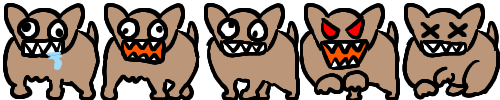
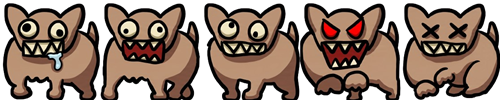
로비캣, 와와 이미지 수정

diff --git a/src/game/LobbyScene.js b/src/game/LobbyScene.js
@@ -1,7 +1,7 @@
 import Phaser from 'phaser';
-import { ALLY_TYPES } from './unitsConfig';
+import { ALLY_TYPES, BOSS_CONFIG } from './unitsConfig';
 import lobby_bg from '../assets/lobby_bg.png';
-import lobby_cat from '../assets/lobby_cat.png';
+import lobby_cat from '../assets/lobby_cat.jpg';
 
 const bgImages = import.meta.glob('../assets/backgrounds/stage*.jpg', { eager: true, import: 'default' });
 const unitImages = import.meta.glob('../assets/units/*.png', { eager: true, import: 'default' });
@@ -50,6 +50,20 @@ export default class LobbyScene extends Phaser.Scene {
             this.setDefaultLevels();
         }
 
+        // Skill Levels
+        let savedSkillLevels = localStorage.getItem('nyanya_skillLevels');
+        if (savedSkillLevels) {
+            try {
+                this.registry.set('skillLevels', JSON.parse(savedSkillLevels));
+            } catch (e) {
+                const defaultSkillLevels = { shout_cooldown: 1, shout_duration: 1, shout_range: 1 };
+                this.registry.set('skillLevels', defaultSkillLevels);
+            }
+        } else {
+            const defaultSkillLevels = { shout_cooldown: 1, shout_duration: 1, shout_range: 1 };
+            this.registry.set('skillLevels', defaultSkillLevels);
+        }
+
         // Stage Clears
         let savedClears = localStorage.getItem('nyanya_stageClears');
         if (savedClears) {
@@ -90,13 +104,16 @@ export default class LobbyScene extends Phaser.Scene {
     }
 
     setDefaultLevels() {
-        const defaultLevels = {
-            normal: 1,
-            tanker: 1,
-            shooter: 1
-        };
-        this.registry.set('unitLevels', defaultLevels);
-        localStorage.setItem('nyanya_unitLevels', JSON.stringify(defaultLevels));
+        if (!this.registry.get('unitLevels')) {
+            const defaultLevels = { leader: 1, normal: 1, tanker: 1, shooter: 1 };
+            this.registry.set('unitLevels', defaultLevels);
+            localStorage.setItem('nyanya_unitLevels', JSON.stringify(defaultLevels));
+        }
+        if (!this.registry.get('skillLevels')) {
+            const defaultSkillLevels = { shout_cooldown: 1, shout_duration: 1, shout_range: 1 };
+            this.registry.set('skillLevels', defaultSkillLevels);
+            localStorage.setItem('nyanya_skillLevels', JSON.stringify(defaultSkillLevels));
+        }
     }
 
     preload() {
@@ -117,6 +134,8 @@ export default class LobbyScene extends Phaser.Scene {
                 this.load.spritesheet(`ally_${key}`, imgUrl, { frameWidth: 100, frameHeight: 100 });
             }
         });
+        const leaderUrl = unitImages['../assets/units/leader.png'];
+        if (leaderUrl) this.load.spritesheet('ally_leader', leaderUrl, { frameWidth: 100, frameHeight: 100 });
     }
 
     create() {
@@ -188,11 +207,11 @@ export default class LobbyScene extends Phaser.Scene {
         // Speech bubble
         const bubble = this.add.graphics();
         bubble.fillStyle(0x000000, 0.6);
-        bubble.fillRoundedRect(100, 50, 250, 60, 15);
+        bubble.fillRoundedRect(75, 220, 250, 60, 15);
         bubble.lineStyle(2, 0xffffff, 1);
-        bubble.strokeRoundedRect(100, 50, 250, 60, 15);
+        bubble.strokeRoundedRect(75, 220, 250, 60, 15);
 
-        this.add.text(225, 80, '김냐냐씨와 함께\n상수동을 되찾아달라냥!', {
+        this.add.text(200, 250, '김냐냐씨와 함께\n상수동을 되찾아달라냥!', {
             fontSize: '16px',
             fontFamily: 'Arial Black',
             fill: '#ffffff',
@@ -232,78 +251,152 @@ export default class LobbyScene extends Phaser.Scene {
     renderUpgradeTab() {
         this.add.rectangle(400, 150, 800, 300, 0x000000, 0.7);
 
-        const title = this.add.text(400, 60, '파워업', {
-            fontSize: '32px',
-            fontFamily: 'Arial Black',
-            fill: '#fbd46d',
-            stroke: '#000',
-            strokeThickness: 5
-        }).setOrigin(0.5);
-
-        const types = ['normal', 'tanker', 'shooter'];
-        const levels = this.registry.get('unitLevels');
         const gold = this.registry.get('globalGold');
 
-        types.forEach((type, i) => {
-            const x = 400;
-            const y = 120 + i * 50;
-            const level = levels[type];
-            const cost = level * 100;
+        // ─── Headers ───
+        this.add.text(200, 45, '유닛 업그레이드', {
+            fontSize: '24px', fontFamily: 'Arial Black', fill: '#fbd46d'
+        }).setOrigin(0.5);
 
-            const bar = this.add.rectangle(x, y, 600, 44, 0xfbd46d, 0.9)
-                .setStrokeStyle(3, 0x000000);
+        this.add.text(600, 45, '스킬 업그레이드', {
+            fontSize: '24px', fontFamily: 'Arial Black', fill: '#43d8c9'
+        }).setOrigin(0.5);
 
-            // Thumbnail
-            if (this.textures.exists(`ally_${type}`)) {
-                this.add.sprite(x - 275, y, `ally_${type}`, 0).setDisplaySize(36, 36);
-            }
+        // ─── Scrollable Setup ───
+        const listWidth = 380;
+        const visibleHeight = 160; // Enough for 3 items (approx 50px each)
+        const listY = 75;
 
-            const spec = ALLY_TYPES[type];
-            this.add.text(x - 245, y, spec.name, {
-                fontSize: '20px',
-                fontFamily: 'Arial Black',
-                fill: '#000000'
-            }).setOrigin(0, 0.5);
+        // Mask for both sides
+        const maskShape = this.make.graphics();
+        maskShape.fillStyle(0xffffff);
+        maskShape.fillRect(10, listY, 380, visibleHeight);
+        maskShape.fillRect(410, listY, 380, visibleHeight);
+        const mask = maskShape.createGeometryMask();
 
-            this.add.text(x - 20, y, `Lv. ${level}`, {
-                fontSize: '20px',
-                fontFamily: 'Arial Black',
-                fill: '#000000'
-            }).setOrigin(0, 0.5);
+        // 1. Units Column
+        const unitTypes = ['leader', 'normal', 'tanker', 'shooter'];
+        this.renderScrollableList(unitTypes, 200, listY, visibleHeight, 'unit', mask);
 
-            const canAfford = gold >= cost;
-            const upgradeBtn = this.add.rectangle(x + 230, y, 120, 30, canAfford ? 0xe74c3c : 0x95a5a6)
-                .setStrokeStyle(2, 0x000000)
-                .setInteractive({ useHandCursor: true });
-
-            this.add.text(x + 230, y, `UP ${cost}`, {
-                fontSize: '14px',
-                fontFamily: 'Arial Black',
-                fill: '#ffffff'
-            }).setOrigin(0.5);
-
-            upgradeBtn.on('pointerdown', () => {
-                if (gold >= cost) {
-                    this.registry.set('globalGold', gold - cost);
-                    levels[type]++;
-                    this.registry.set('unitLevels', levels);
-                    this.scene.restart({ keepTab: true });
-                }
-            });
-        });
+        // 2. Skills Column
+        const skillTypes = [
+            { id: 'shout_cooldown', name: '함성 쿨타임' },
+            { id: 'shout_duration', name: '함성 지속시간' },
+            { id: 'shout_range', name: '함성 범위 확대' } 
+        ];
+        this.renderScrollableList(skillTypes, 600, listY, visibleHeight, 'skill', mask);
 
         const backBtn = this.add.text(400, 275, '< 돌아가기', {
-            fontSize: '24px',
-            fontFamily: 'Arial Black',
-            fill: '#ffffff',
-            stroke: '#000',
-            strokeThickness: 3
+            fontSize: '24px', fontFamily: 'Arial Black', fill: '#ffffff', stroke: '#000', strokeThickness: 3
         }).setOrigin(0.5).setInteractive({ useHandCursor: true });
 
         backBtn.on('pointerdown', () => {
             this.tab = 'MAIN';
             this.scene.restart({ keepTab: true });
         });
+    }
+
+    renderScrollableList(items, centerX, startY, visibleHeight, type, mask) {
+        const container = this.add.container(centerX, startY);
+        container.setMask(mask);
+
+        const levels = type === 'unit' ? this.registry.get('unitLevels') : this.registry.get('skillLevels');
+        const gold = this.registry.get('globalGold');
+        const itemHeight = 52;
+
+        items.forEach((item, i) => {
+            const y = i * itemHeight + 26; // relative to container
+            const id = type === 'unit' ? item : item.id;
+            const name = type === 'unit' ? (item === 'leader' ? '김냐냐(Leader)' : ALLY_TYPES[item].name) : item.name;
+            const level = levels[id] || 1;
+            
+            let cost = 0;
+            if (type === 'unit') {
+                const spec = (item === 'leader') ? BOSS_CONFIG.leader : ALLY_TYPES[item];
+                // Use cost * 5 as base, fallback for 0 cost units
+                const baseBuyPrice = (spec && spec.cost > 0) ? spec.cost : (item === 'leader' ? 500 : 200);
+                cost = (baseBuyPrice * 5) * Math.pow(2, level - 1);
+            } else {
+                cost = level * 1000;
+            }
+
+            const canAfford = gold >= cost;
+
+            const bg = this.add.rectangle(0, y, 370, 48, 0x1a1a2e, 0.8)
+                .setStrokeStyle(2, type === 'unit' ? 0xfbd46d : 0x43d8c9, 0.5);
+            container.add(bg);
+
+            // Icon/Thumb
+            if (type === 'unit') {
+                const thumb = this.add.sprite(-165, y, `ally_${id}`, 0).setDisplaySize(32, 32);
+                container.add(thumb);
+            }
+
+            const nameText = this.add.text(type === 'unit' ? -145 : -175, y, name, {
+                fontSize: '16px', fontFamily: 'Arial Black', fill: '#ffffff'
+            }).setOrigin(0, 0.5);
+            container.add(nameText);
+
+            const lvText = this.add.text(40, y, `Lv. ${level}`, {
+                fontSize: '16px', fontFamily: 'Arial Black', fill: type === 'unit' ? '#fbd46d' : '#43d8c9'
+            }).setOrigin(0, 0.5);
+            container.add(lvText);
+
+            const upgradeBtn = this.add.rectangle(135, y, 90, 30, canAfford ? 0xe74c3c : 0x95a5a6)
+                .setStrokeStyle(2, 0x000000)
+                .setInteractive({ useHandCursor: true });
+            
+            const btnText = this.add.text(135, y, `UP ${cost}`, {
+                fontSize: '11px', fontFamily: 'Arial Black', fill: '#fff'
+            }).setOrigin(0.5);
+            
+            container.add(upgradeBtn);
+            container.add(btnText);
+
+            upgradeBtn.on('pointerdown', () => {
+                if (gold >= cost) {
+                    this.registry.set('globalGold', gold - cost);
+                    levels[id]++;
+                    if (type === 'unit') {
+                        this.registry.set('unitLevels', levels);
+                        localStorage.setItem('nyanya_unitLevels', JSON.stringify(levels));
+                    } else {
+                        this.registry.set('skillLevels', levels);
+                        localStorage.setItem('nyanya_skillLevels', JSON.stringify(levels));
+                    }
+                    this.scene.restart({ keepTab: true });
+                }
+            });
+        });
+
+        // Drag to scroll logic
+        const contentHeight = items.length * itemHeight;
+        if (contentHeight > visibleHeight) {
+            const trackX = centerX + 185;
+            const scrollTrack = this.add.rectangle(trackX, startY + visibleHeight / 2, 6, visibleHeight, 0xffffff, 0.2);
+            const handleHeight = (visibleHeight / contentHeight) * visibleHeight;
+            const scrollHandle = this.add.rectangle(trackX, startY + handleHeight / 2, 6, handleHeight, 0xffffff, 0.6);
+
+            const hitArea = this.add.rectangle(centerX, startY + visibleHeight / 2, 380, visibleHeight, 0x000, 0)
+                .setInteractive({ draggable: true });
+            
+            let startYPos = 0;
+            hitArea.on('dragstart', () => {
+                startYPos = container.y;
+            });
+            hitArea.on('drag', (pointer, dragX, dragY) => {
+                let newY = startYPos + (dragY - (startY + visibleHeight / 2));
+                const minY = startY - (contentHeight - visibleHeight);
+                const maxY = startY;
+                if (newY < minY) newY = minY;
+                if (newY > maxY) newY = maxY;
+                container.y = newY;
+
+                // Update scrollbar handle position
+                const scrollPercent = (startY - container.y) / (contentHeight - visibleHeight);
+                scrollHandle.y = startY + (handleHeight / 2) + scrollPercent * (visibleHeight - handleHeight);
+            });
+        }
     }
 
     renderBattleTab() {

diff --git a/src/game/SkillManager.js b/src/game/SkillManager.js
@@ -8,8 +8,16 @@ export default class SkillManager {
     }
 
     useShouting() {
-        if (this.scene.battleTime - this.lastCannonTime >= this.cannonCooldown) {
+        const skillLevels = this.scene.registry.get('skillLevels') || { shout_cooldown: 1, shout_duration: 1, shout_range: 1 };
+        
+        // Stats based on level
+        const currentCooldown = Math.max(5000, 15000 - (skillLevels.shout_cooldown - 1) * 1000);
+        const currentDuration = 10000 + (skillLevels.shout_duration - 1) * 2000;
+        const currentRange = 150 + (skillLevels.shout_range - 1) * 30;
+
+        if (this.scene.battleTime - this.lastCannonTime >= currentCooldown) {
             this.lastCannonTime = this.scene.battleTime;
+            this.cannonCooldown = currentCooldown; // For getCannonProgress calculation
 
             const leader = this.unitManager.allies.find(u => u.isBoss && u.isAlly);
             if (leader) {
@@ -49,11 +57,11 @@ export default class SkillManager {
                     onComplete: () => shoutRing.destroy()
                 });
 
-                // 3. Buff Logic: 150px radius allies
+                // 3. Buff Logic: Allies within currentRange
                 this.unitManager.allies.forEach(ally => {
                     const dist = Phaser.Math.Distance.Between(leader.x, leader.y, ally.x, ally.y);
-                    if (dist <= 150) {
-                        ally.buffRemainingTime = 10000; // 10 seconds
+                    if (dist <= currentRange) {
+                        ally.buffRemainingTime = currentDuration; 
                     }
                 });
             }

diff --git a/src/game/UnitManager.js b/src/game/UnitManager.js
@@ -60,13 +60,25 @@ export default class UnitManager {
 
         const unitLevels = this.scene.registry.get('unitLevels') || {};
         const level = unitLevels[typeKey] || 1;
-        const levelBonus = 1 + (level - 1) * 0.1; // 10% bonus per level
+        const levelBonus = 1 + (level - 1) * 0.2; // 20% HP/DMG bonus per level
+
+        let finalDefense = specs.defense || 0;
+        let finalCooldown = specs.cooldown;
+
+        if (typeKey === 'tanker') {
+            finalDefense += (level - 1) * 1; // +1 Defense per level
+        } else if (typeKey === 'shooter') {
+            // Increase attack speed by 5% per level (reduce cooldown)
+            finalCooldown /= (1 + (level - 1) * 0.05);
+        }
 
         const finalSpecs = { 
             ...specs, 
             typeKey,
             hp: specs.hp * levelBonus,
-            damage: specs.damage * levelBonus
+            damage: specs.damage * levelBonus,
+            defense: finalDefense,
+            cooldown: finalCooldown
         };
 
         const spriteKey = 'ally_' + typeKey;
@@ -127,6 +139,11 @@ export default class UnitManager {
 
         if (isAlly) {
             specs = { ...BOSS_CONFIG.leader };
+            const unitLevels = this.scene.registry.get('unitLevels') || {};
+            const level = unitLevels['leader'] || 1;
+            const levelBonus = 1 + (level - 1) * 0.2; // 20% bonus per level
+            specs.hp *= levelBonus;
+            specs.damage *= levelBonus;
             spriteKey = 'ally_leader';
         } else {
             if (stageConfig.boss.isCustom) {
